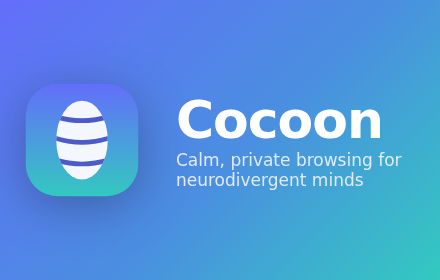
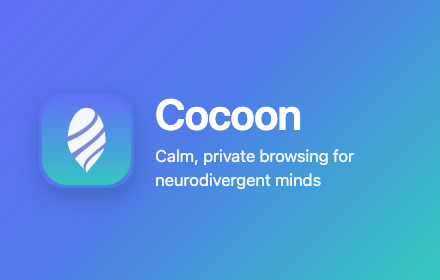
chore(store): generate store screenshots and promo tiles from the built extension
All four store assets were captured by hand, so they went stale the moment the
UI changed and nothing detected it. After the design pass they still showed
boxed cards, native form controls and the old coin-stack mark — uploading them
would have advertised a product that no longer exists.

Adds scripts/generate-store-screenshots.mjs (npm run screenshots): builds
dist/, renders the real popup and options pages in headless Chrome against a
stubbed chrome API, frames them, and writes all four assets at exact sizes.
No new npm dependencies; uses the Chrome already installed.

Three things worth knowing for whoever touches this next:

- --headless=new hangs indefinitely on macOS here and never writes the file.
  Old --headless works, and is used deliberately.
- Chrome writes the screenshot and then DOES NOT EXIT, so spawnSync blocks
  forever. The capture helper polls for the file, waits for its size to stop
  changing so a half-written PNG is never accepted, then kills the process.
  That is the whole reason this is not a two-line spawnSync.
- Capture heights end on a section boundary. A crop through the middle of an
  eyebrow label reads as a broken screenshot rather than a deliberate frame.

The stub also pins the light palette, so output does not depend on the colour
scheme of whichever machine runs the script.

Verified: all four regenerated at exactly 1280x800, 1280x800, 440x280 and
1400x560, inspected, and npm run check exits 0 with pre-commit clean.

Changed region(s): [[0.0295, 0.3429, 0.325, 0.7714], [0.3545, 0.3429, 0.8864, 0.5143], [0.3545, 0.5143, 0.9159, 0.6857]]

diff --git a/docs/STORE_LISTING.md b/docs/STORE_LISTING.md
@@ -90,13 +90,23 @@ HTTPS once the certificate issues.
 ## Assets to upload
 
 - **Store icon:** 128×128 — use `public/icons/icon-128.png`.
-- **Screenshots:** ⚠ **`docs/assets/store/*.png` are stale — do not upload as
-  is.** They were captured before the UI and icon were reworked, so they show
-  the old boxed layout, native form controls, and the previous coin-stack mark.
-  Recapture the popup and options pages from a freshly built `dist/` before
-  submitting; uploading these would advertise a version of the product that no
-  longer exists. Add a before/after of a cleaned feed during manual domain QA
-  if possible.
+- **Screenshots and promo tiles:** all four assets in `docs/assets/store/` are
+  **generated** — run `npm run screenshots`.
+
+  ```
+  screenshot-popup.png     1280×800
+  screenshot-options.png   1280×800
+  promo-440x280.png          440×280
+  promo-1400x560.png        1400×560
+  ```
+
+  The script builds `dist/`, renders the real popup and options pages in
+  headless Chrome against a stubbed `chrome` API, and frames them. Rerun it
+  after any UI or icon change — these were previously hand-captured and went
+  stale silently, still showing boxed cards, native form controls and the old
+  coin-stack mark long after the redesign.
+
+  Add a before/after of a cleaned feed during manual domain QA if possible.
 - **Small promo tile:** `docs/assets/store/promo-440x280.png`.
 - **Marquee promo tile (optional):** `docs/assets/store/promo-1400x560.png`.
 
